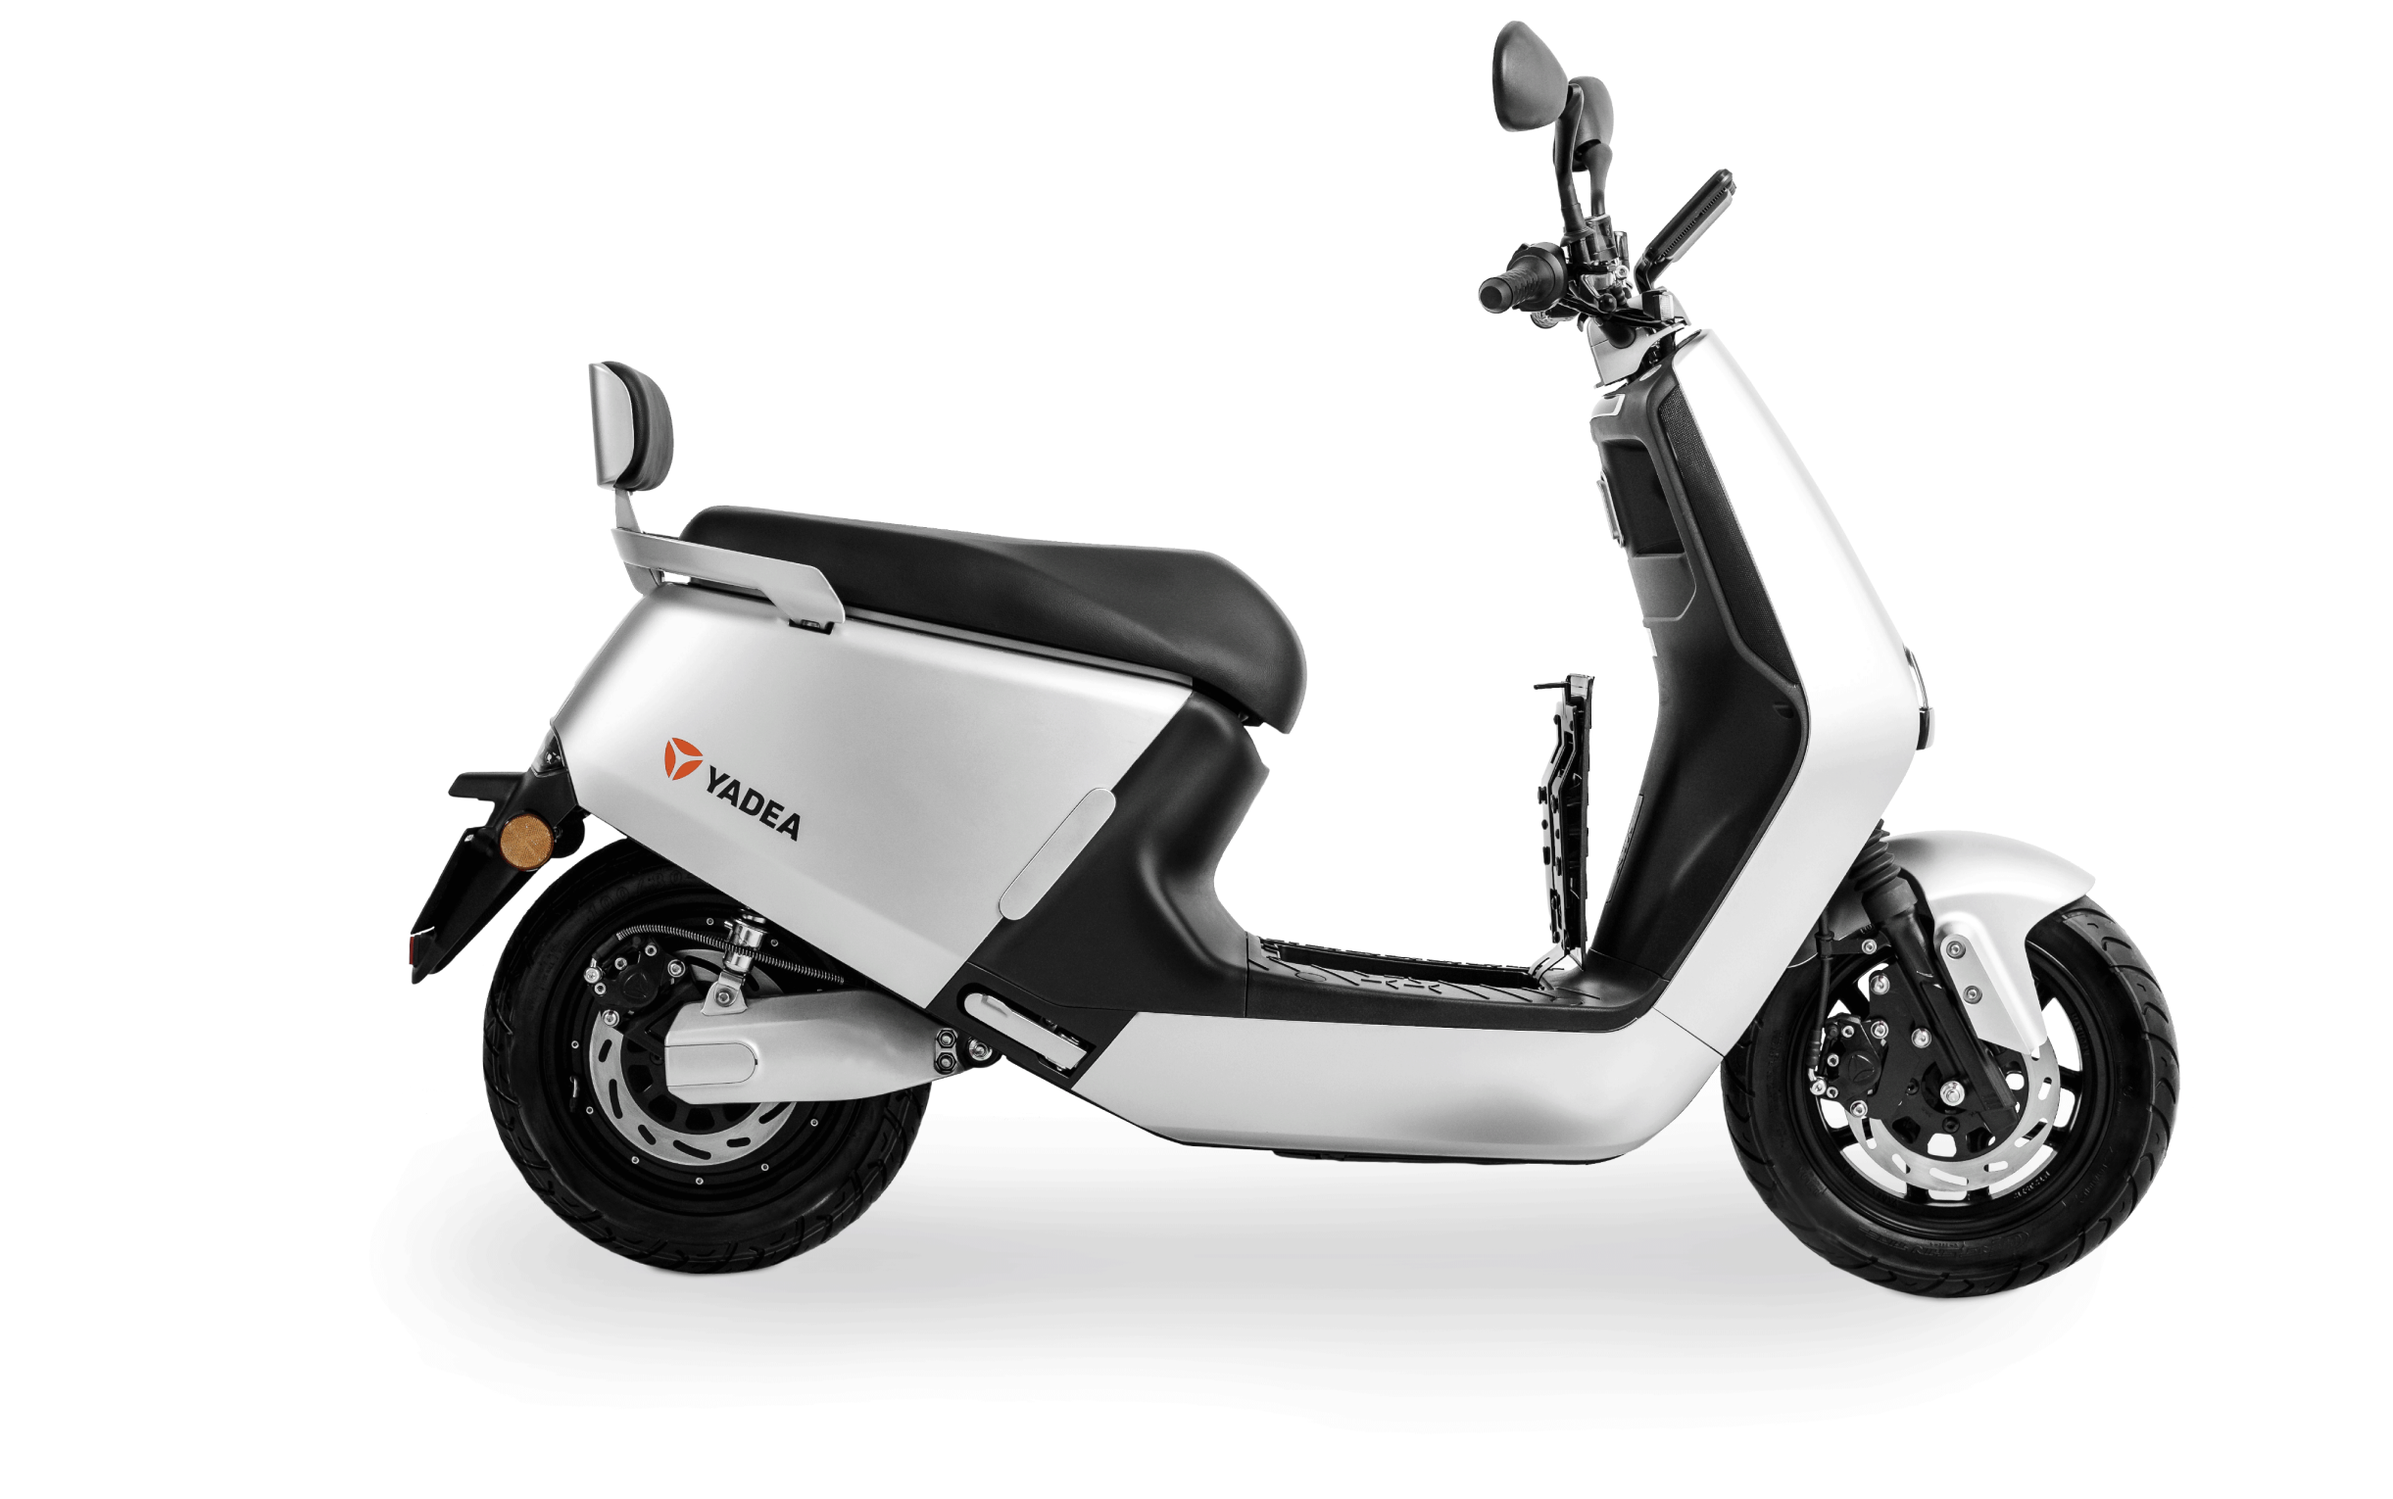
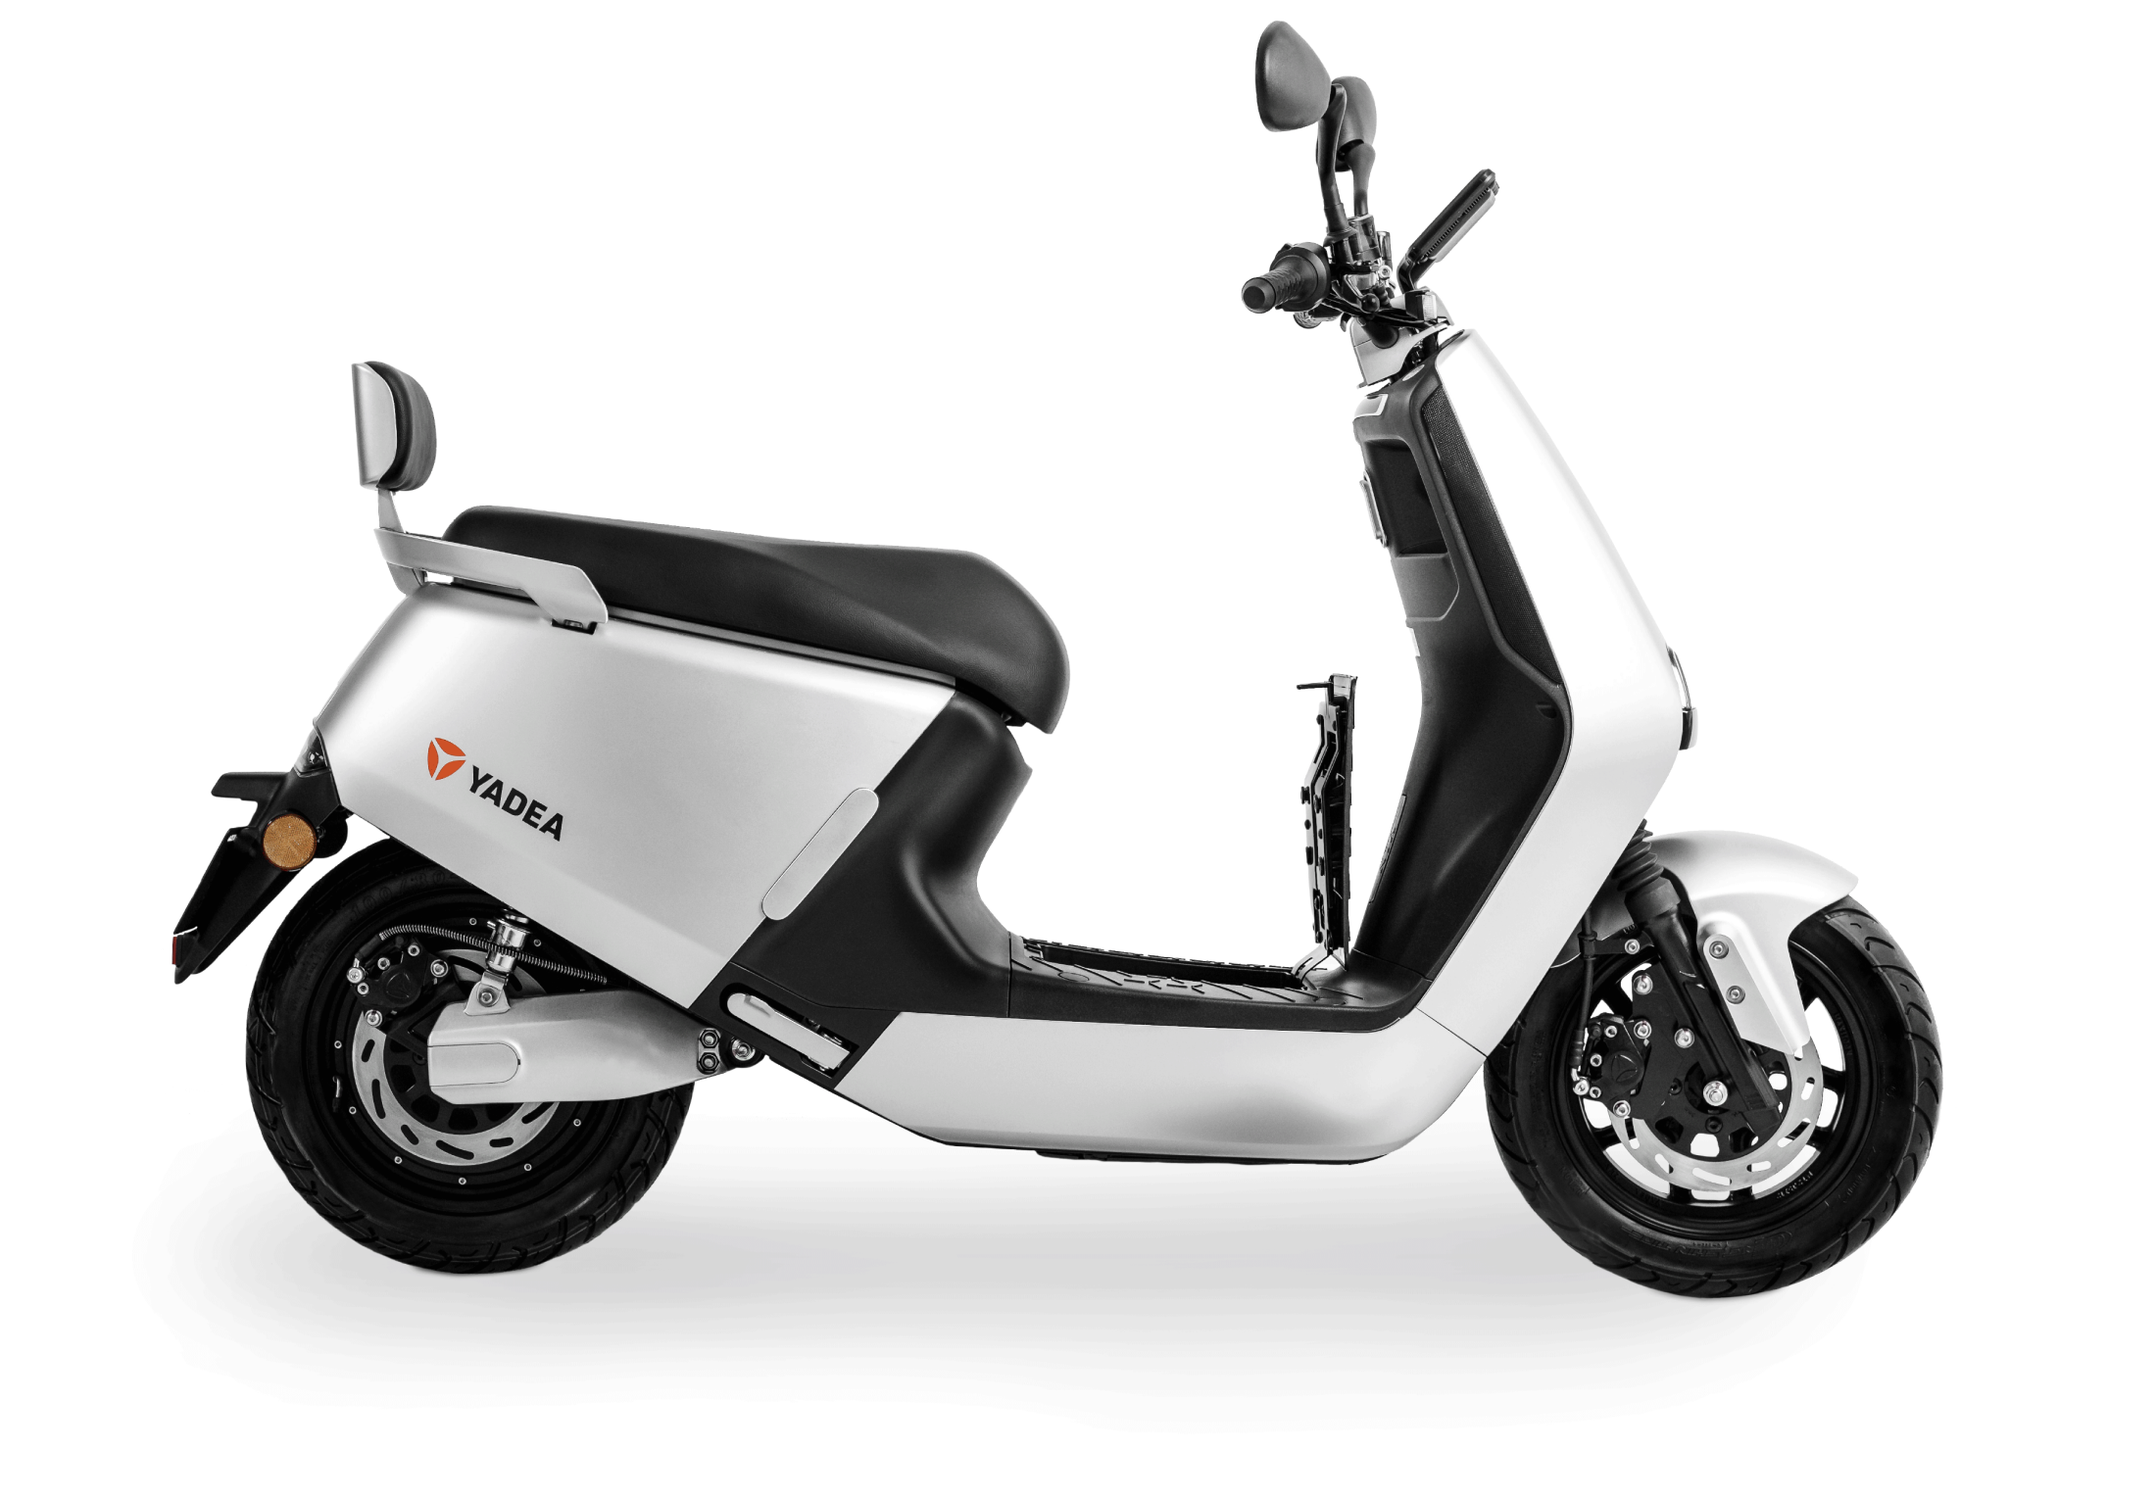
yadea parallax section made non-parallax

Changed region(s): [[0.0618, 0.0, 0.9273, 0.8908]]

diff --git a/_includes/static/block-yadea-main.html b/_includes/static/block-yadea-main.html
@@ -137,27 +137,25 @@
   <div class="container">
 
     <div class="row align-items-center py-5 py-md-0">
-      <div class="col-md-5 offset-md-1 offset-xl-2 order-md-2">
+      <div class="col-md-6 col-lg-5 col-xl-4 offset-lg-1 order-md-2">
         <h2 class="headline-large">Built-in IoT Device</h2>
-        <p class="pr-lg-5">Keep your fleet connected with built-in IoT technology and cut out third-party devices.</p>
+        <p class="pr-5">Keep your fleet connected with built-in IoT technology and cut out third-party devices.</p>
       </div>
       <div class="col-md-6 col-lg-5">
-        <div id="yadea-iot" class="yadea-parallax">
-          <img id="yadea-iot__iot" class="rellax" data-rellax-speed="2" src="uploads/global/yadea-iot.png" srcset="uploads/global/yadea-iot@2x.png 2x" />
-          <img id="yadea-iot__front" src="uploads/global/yadea-front.png" srcset="uploads/global/yadea-front@2x.png 2x" />
+        <div id="yadea-iot">
+          <img id="yadea-iot__front" data-src="uploads/global/yadea-front.png" data-srcset="uploads/global/yadea-front@2x.png 2x" />
         </div>
       </div>
     </div>
 
     <div class="row pb-5 align-items-center">
-      <div class="col-md-5 col-lg-4">
+      <div class="col-md-6 col-lg-4 offset-lg-1">
         <h2 class="headline-large">Swappable Battery</h2>
-        <p class="pr-xl-5">Swap out the G5’s integrated, ultra-light battery with your master key - no other tools required.</p>
+        <p class="pr-5">Swap out the G5’s integrated, ultra-light battery with your master key - no other tools required.</p>
       </div>
-      <div class="col-md-7 offset-lg-1">
-        <div id="yadea-battery" class="yadea-parallax">
-          <img id="yadea-battery__battery" src="uploads/global/yadea-battery.png" srcset="uploads/global/yadea-battery@2x.png 2x" />
-          <img id="yadea-battery__side" class="rellax" data-rellax-zindex="0" data-rellax-horizontal-speed="2" data-rellax-vertical-scroll-axis="x" src="uploads/global/yadea-openbattery.png" srcset="uploads/global/yadea-openbattery@2x.png 2x" />
+      <div class="col-md-6 col-lg-7">
+        <div id="yadea-battery">
+          <img id="yadea-battery__side" data-src="uploads/global/yadea-openbattery.png" data-srcset="uploads/global/yadea-openbattery@2x.png 2x" />
         </div>
       </div>
     </div>

diff --git a/_sass/hp/_products.scss b/_sass/hp/_products.scss
@@ -456,6 +456,7 @@ svg.right-arrow {
 
 }
 
+/*
 .yadea-parallax {
   img {
     max-width: none;
@@ -481,6 +482,34 @@ svg.right-arrow {
     }
     &#yadea-battery__side {
       margin-left: 150px;
+    }
+  }
+}
+*/
+
+// yadea highlight section
+#highlights {
+  img {
+
+    &#yadea-iot__front {
+      max-width: 100%;
+      @include rwd(tablet-up) {
+        max-width: 140%;
+        transform: translateX(-20%);
+      }
+      @include rwd(desktop-up) {
+        transform: translateX(-12%);
+        max-width: none;
+      }
+    }
+    &#yadea-battery__side {
+      max-width: 150%;
+      @include rwd(tablet-up) {
+        max-width: 195%;
+      }
+      @include rwd(desktop-up) {
+        max-width: none;
+      }
     }
   }
 }
